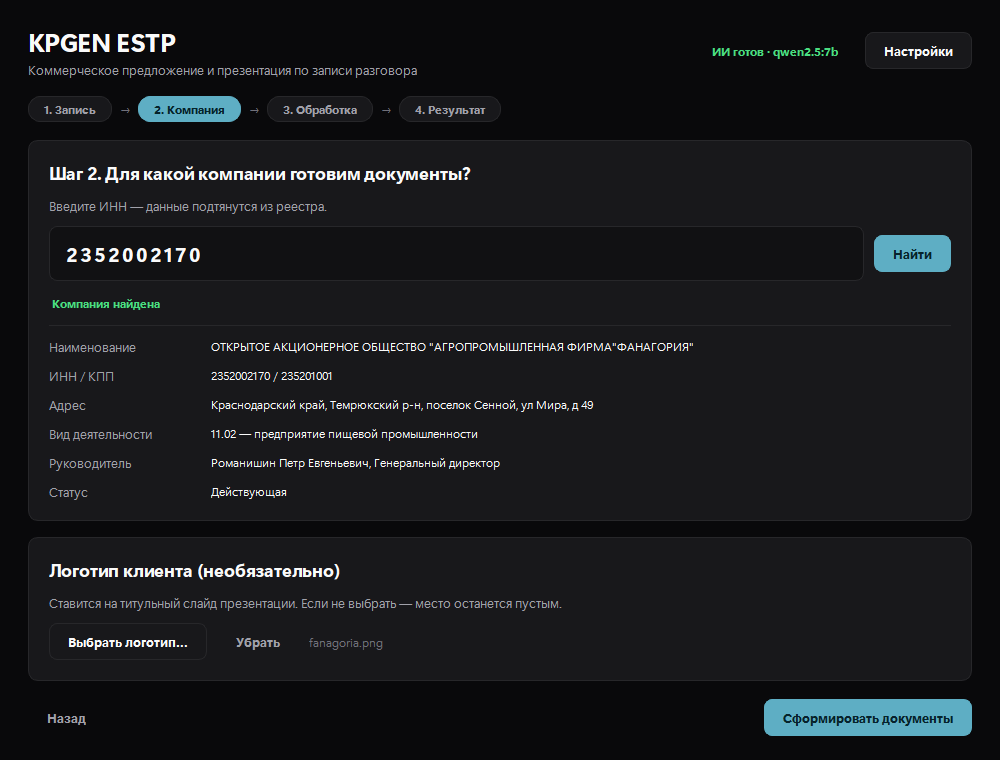
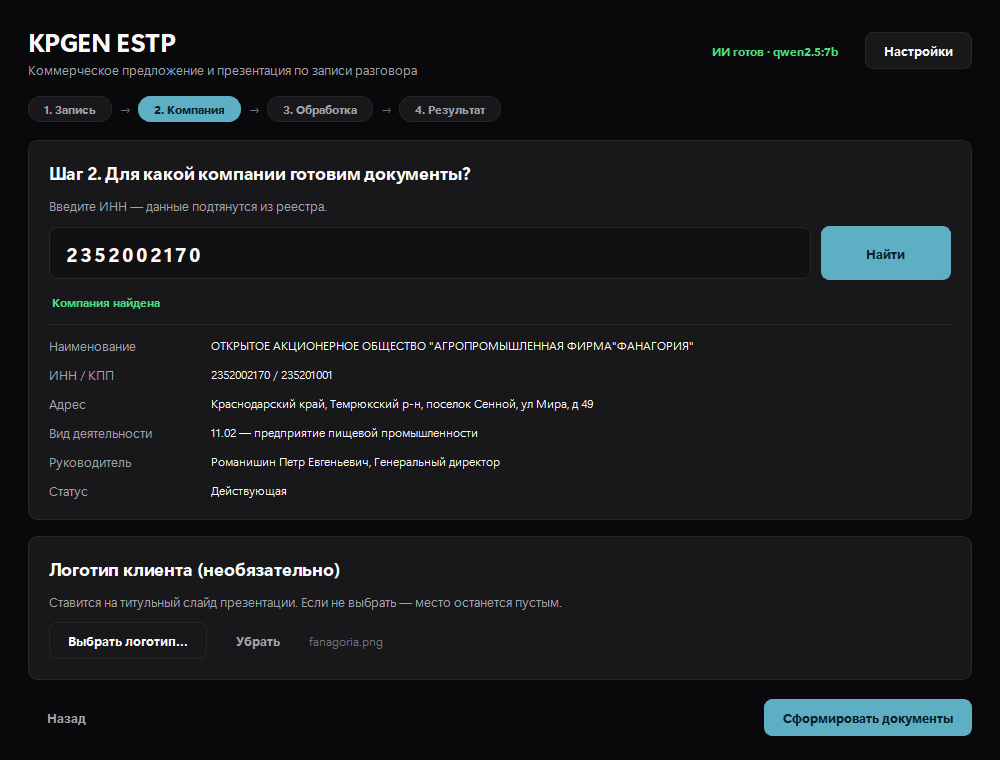
fix: поле ввода ИНН и кнопка «Найти» обрезались по высоте
Крупный шрифт поля с отступами не помещался в высоту виджета —
текст ИНН и надпись на кнопке визуально срезались снизу.
Заданы минимальная высота и фиксированная политика размера.

diff --git a/app/ui/main_window.py b/app/ui/main_window.py
@@ -177,9 +177,16 @@ class MainWindow(QWidget):
         self.inn_edit.setObjectName("inn")
         self.inn_edit.setPlaceholderText("ИНН: 10 или 12 цифр")
         self.inn_edit.setMaxLength(12)
+        # Высота задаётся явно: крупный шрифт с отступами иначе обрезается.
+        self.inn_edit.setMinimumHeight(54)
+        self.inn_edit.setSizePolicy(QSizePolicy.Expanding, QSizePolicy.Fixed)
         self.inn_edit.returnPressed.connect(self._lookup_company)
+
         self.lookup_button = QPushButton("Найти")
         self.lookup_button.setObjectName("primary")
+        self.lookup_button.setMinimumHeight(54)
+        self.lookup_button.setMinimumWidth(130)
+        self.lookup_button.setSizePolicy(QSizePolicy.Fixed, QSizePolicy.Fixed)
         self.lookup_button.clicked.connect(self._lookup_company)
         search_row.addWidget(self.inn_edit, 1)
         search_row.addWidget(self.lookup_button)

diff --git a/app/ui/theme.py b/app/ui/theme.py
@@ -180,7 +180,14 @@ QLineEdit#inn {{
     font-size: 20px;
     font-weight: 600;
     letter-spacing: 2px;
-    padding: 12px 14px;
+    padding: 10px 14px;
+    min-height: 30px;
+}}
+
+QPushButton#lookup {{
+    font-size: 14px;
+    padding: 10px 26px;
+    min-height: 30px;
 }}
 
 QComboBox::drop-down {{
